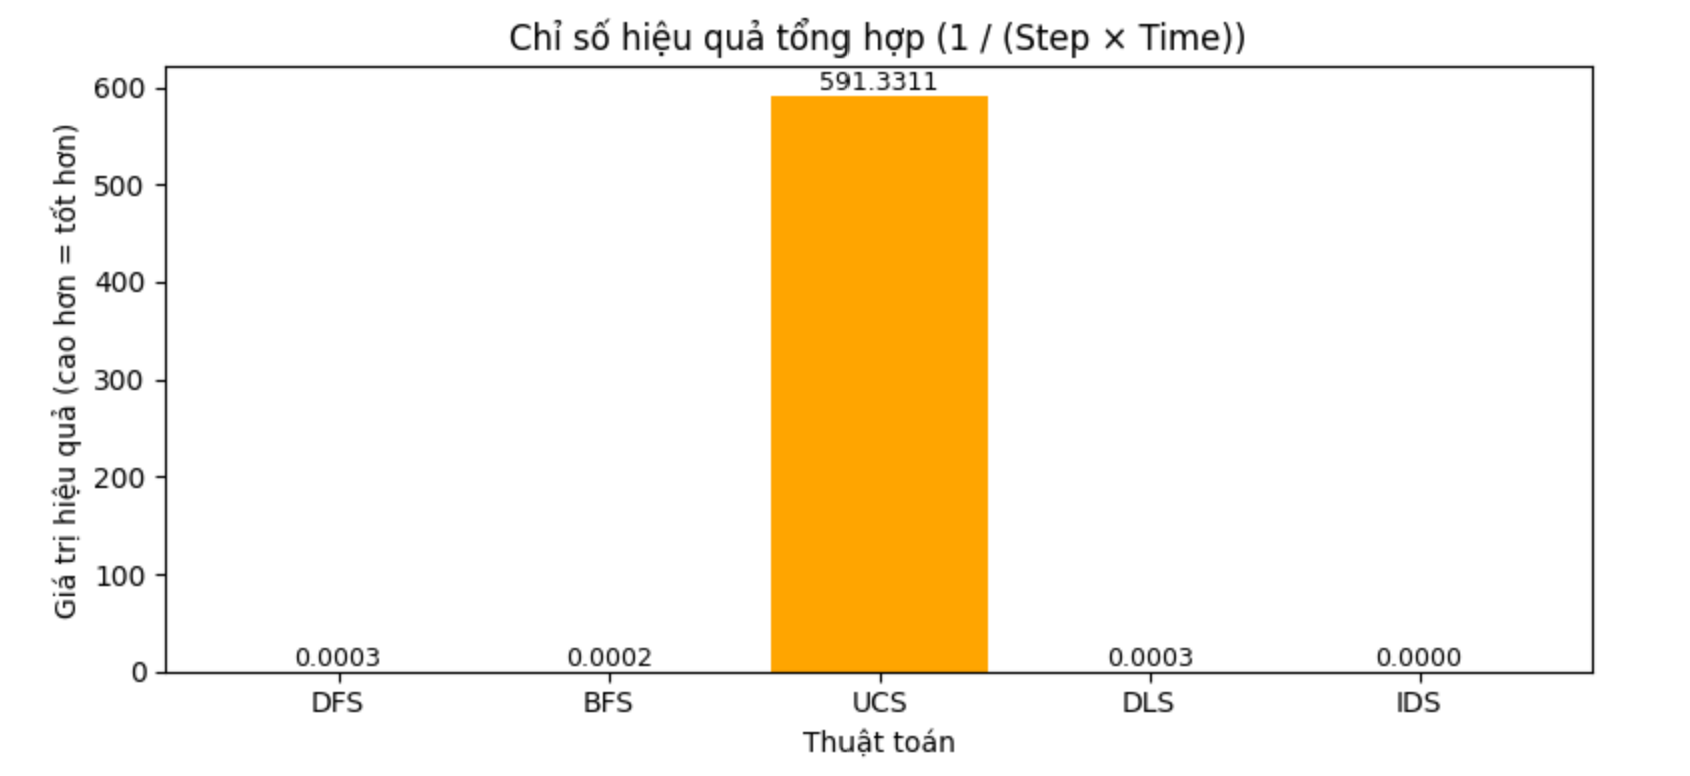
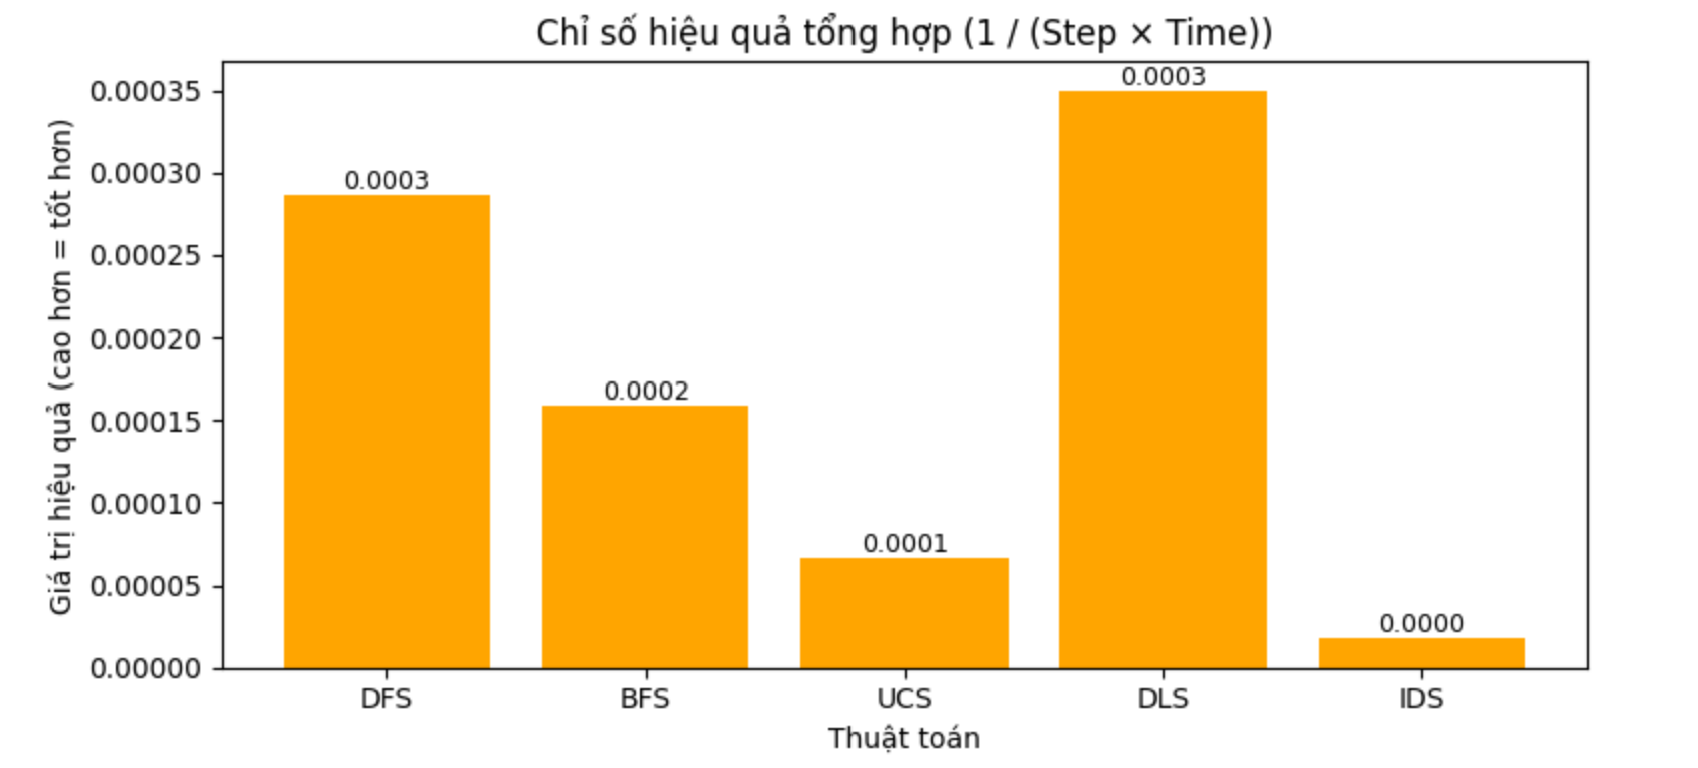
update f Image and Fix UCS

diff --git a/QuanXe/UCS.py b/QuanXe/UCS.py
@@ -1,13 +1,7 @@
 from queue import PriorityQueue
 import globals
 def Path_Cost(stateNow):
-    hx = 0
-    for i in range(len(globals.target_solution)):
-        if i > len(stateNow) - 1:
-            hx += globals.target_solution[i]
-        else:
-            hx += abs(stateNow[i] - globals.target_solution[i])
-    return hx
+    return globals.N - len(stateNow)
 def UCS():
     hangdoi = PriorityQueue()
     hangdoi.put((Path_Cost([]), []))  # (cost, state)

diff --git a/QuanXe/main.py b/QuanXe/main.py
@@ -185,8 +185,8 @@ def main():
     root = tk.Tk()
     root.title("8 quân xe")
     all_solutions = CreateTarget()
-    target_solution = all_solutions[random.randint(1, 100)]
-    # target_solution =  [4, 5, 0, 6, 3, 1, 2, 7]
+    # target_solution = all_solutions[random.randint(1, 100)]
+    target_solution =  [4, 5, 0, 6, 3, 1, 2, 7]
     globals.target_solution = target_solution
     print("target: ", target_solution)
 
